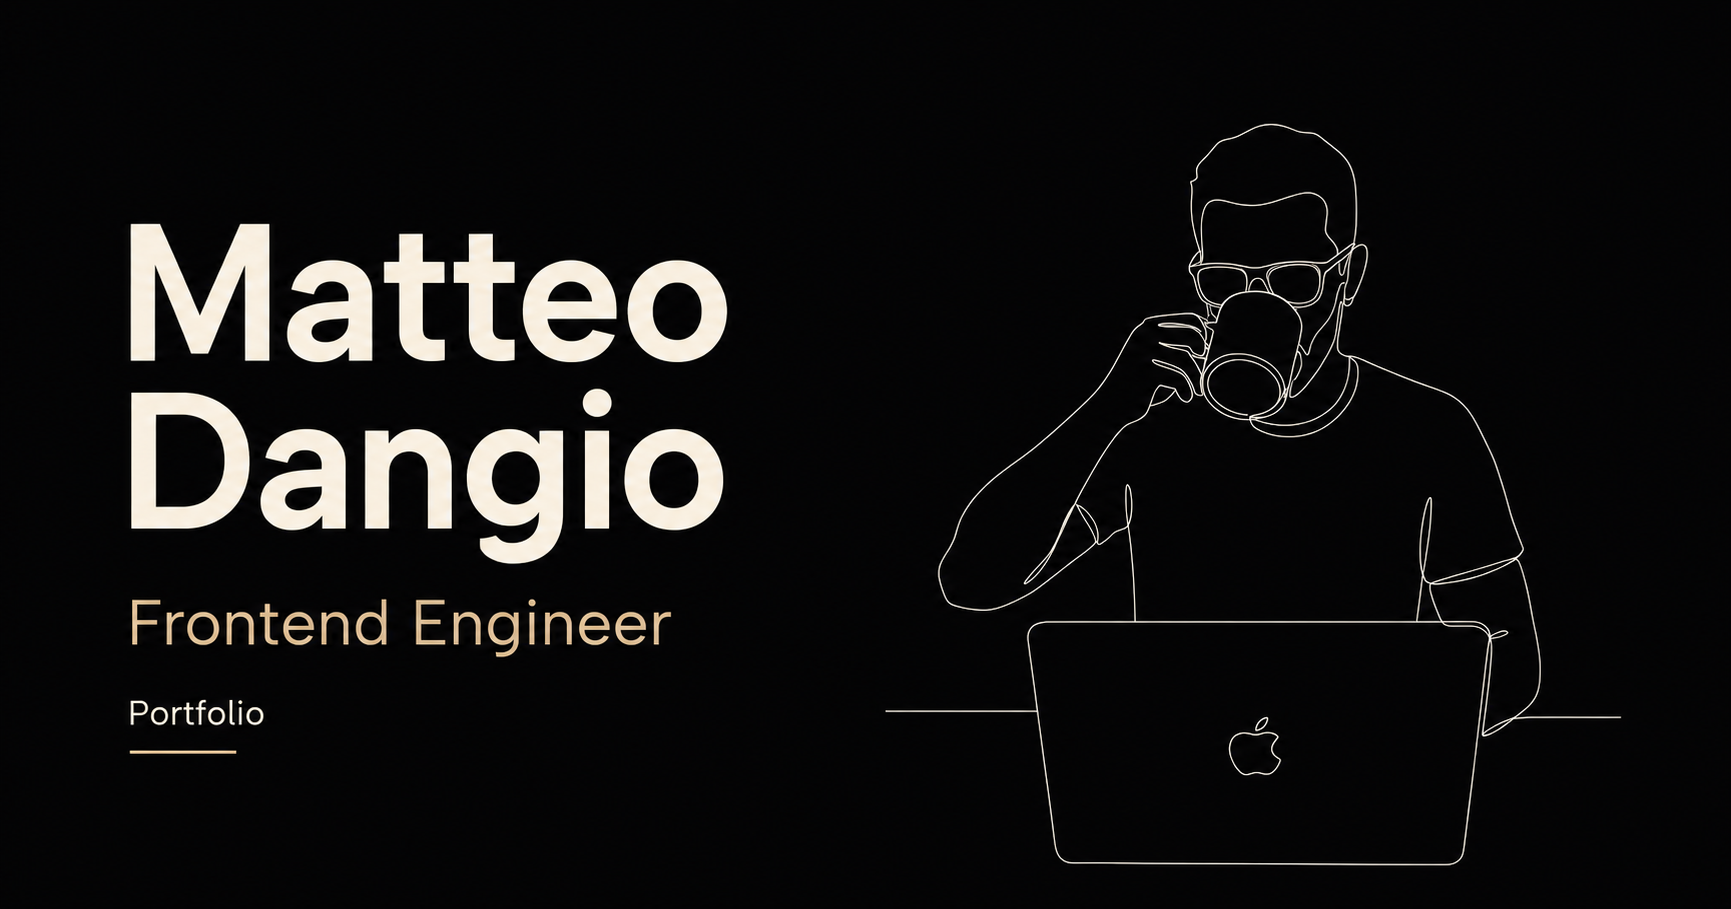
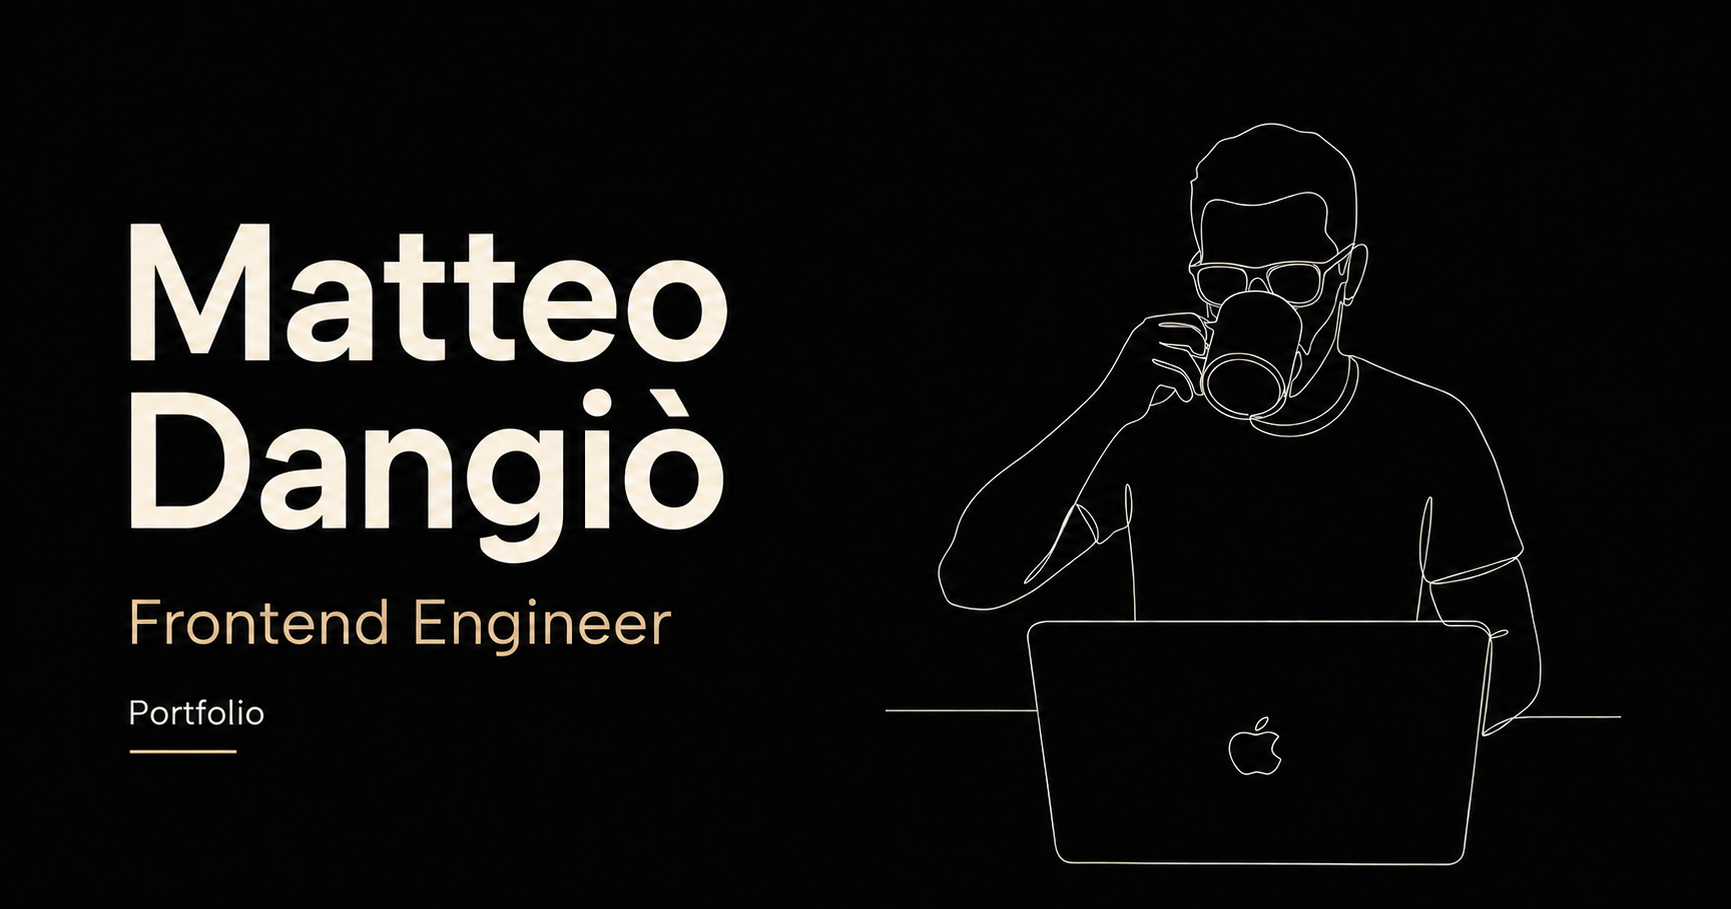
chore: refactor, images added

diff --git a/src/app/projects/[slug]/projectPageSections.tsx b/src/app/projects/[slug]/projectPageSections.tsx
@@ -139,7 +139,7 @@ function ProjectImageFrame({
 }) {
   return (
     <div
-      className="overflow-hidden rounded-2xl border"
+      className="w-full overflow-hidden rounded-2xl border"
       style={{
         borderColor: "var(--border)",
         background:
@@ -147,17 +147,19 @@ function ProjectImageFrame({
       }}
     >
       {image ? (
-        <div className="flex h-full flex-col">
-          <div className="relative min-h-[260px] w-full flex-1 md:min-h-[360px]">
-            <Image
-              src={image.src}
-              alt={image.alt}
-              fill
-              sizes="(max-width: 768px) 100vw, 40vw"
-              priority={priority}
-              className="object-cover"
-            />
-          </div>
+        <div className="flex flex-col">
+          <a href={image.src} target="_blank" rel="noopener noreferrer">
+            <div className="relative aspect-video w-full">
+              <Image
+                src={image.src}
+                alt={image.alt}
+                fill
+                sizes="(max-width: 768px) 100vw, 50vw"
+                priority={priority}
+                className="object-cover"
+              />
+            </div>
+          </a>
           {image.caption && (
             <div
               className="border-t px-5 py-4"
@@ -170,7 +172,7 @@ function ProjectImageFrame({
           )}
         </div>
       ) : (
-        <div className="flex min-h-[260px] items-center justify-center p-8 md:min-h-[360px]">
+        <div className="flex aspect-video items-center justify-center p-8">
           <p
             className="text-center text-sm uppercase tracking-[0.16em]"
             style={{ color: "var(--text-faint)" }}
@@ -186,11 +188,11 @@ function ProjectImageFrame({
 export function ProjectHero({ project }: { project: IProjectShowcaseItem }) {
   return (
     <header
-      className="border-b pb-12 md:pb-16"
-      style={{ borderColor: "var(--border)" }}
+      // className="border-b pb-12 md:pb-16"
+      // style={{ borderColor: "var(--border)" }}
     >
-      <div className="grid gap-10 lg:grid-cols-[minmax(0,0.95fr)_minmax(320px,0.85fr)] lg:gap-16">
-        <div>
+      <div className="grid gap-10 xl:grid-cols-[minmax(0,1.15fr)_minmax(0,28rem)] xl:items-start xl:gap-16">
+        <div className="min-w-0">
           <p
             className="mb-4 text-xs font-medium uppercase tracking-[0.18em]"
             style={{ color: "var(--text-faint)" }}
@@ -220,7 +222,7 @@ export function ProjectHero({ project }: { project: IProjectShowcaseItem }) {
           {(project.liveUrl || project.githubUrl) && (
             <div className="mt-8 flex flex-wrap gap-4">
               {project.liveUrl && (
-                <ExternalProjectLink href={project.liveUrl}>
+                <ExternalProjectLink href={project.liveUrl ? project.liveUrl : project.temporaryUrl!}>
                   View live
                 </ExternalProjectLink>
               )}
@@ -233,7 +235,9 @@ export function ProjectHero({ project }: { project: IProjectShowcaseItem }) {
           )}
         </div>
 
-        <ProjectImageFrame image={project.heroImage} priority />
+        <div className="min-w-0">
+          <ProjectImageFrame image={project.heroImage} priority />
+        </div>
       </div>
     </header>
   );
@@ -527,7 +531,8 @@ function ProjectGallery({ images }: { images: IProjectImage[] }) {
               background: "var(--surface)",
             }}
           >
-            <div className="relative h-[240px] w-full">
+          <a href={image.src} target="_blank" rel="noopener noreferrer">
+            <div className="relative aspect-video w-full">
               <Image
                 src={image.src}
                 alt={image.alt}
@@ -536,6 +541,7 @@ function ProjectGallery({ images }: { images: IProjectImage[] }) {
                 className="object-cover"
               />
             </div>
+          </a>
             {image.caption && (
               <figcaption
                 className="border-t px-5 py-4 text-sm leading-7"

diff --git a/src/components/sections/hero.tsx b/src/components/sections/hero.tsx
@@ -39,8 +39,8 @@ export default function Hero() {
         </p>
         <ThemeToggle />
       </div>
-      <div className="mx-auto grid min-h-[calc(100svh-4.75rem)] max-w-7xl grid-cols-1 gap-6 pb-8 pt-4 md:grid-cols-[minmax(0,0.82fr)_minmax(320px,1fr)] md:items-center md:gap-10 md:py-8 [@media(max-height:480px)]:min-h-[calc(100svh-3.5rem)] [@media(max-height:480px)]:gap-4 [@media(max-height:480px)]:py-2">
-        <div className="flex flex-col justify-center py-2 md:py-8 [@media(max-height:480px)]:py-0">
+      <div className="mx-auto grid min-h-[calc(100svh-4.75rem)] max-w-7xl grid-cols-1 gap-6 pb-8 pt-4 md:grid-cols-[minmax(0,0.82fr)_minmax(320px,1fr)] md:items-center md:gap-8 md:py-6 lg:gap-10 [@media(max-height:820px)]:gap-5 [@media(max-height:820px)]:py-3 [@media(max-height:480px)]:min-h-[calc(100svh-3.5rem)] [@media(max-height:480px)]:gap-4 [@media(max-height:480px)]:py-2">
+        <div className="flex flex-col justify-center py-2 md:py-6 [@media(max-height:820px)]:py-1 [@media(max-height:480px)]:py-0">
           <div
             className="flex max-w-5xl justify-center md:justify-start"
             style={{
@@ -51,12 +51,12 @@ export default function Hero() {
               srcLight="/dark-hero-me.png"
               srcDark="/light-hero-me.png"
               alt="Matteo Dangiò Frontend Engineer"
-              className="hero-wordmark w-full max-w-[260px] sm:max-w-[320px] md:max-w-[430px] lg:max-w-[500px] xl:max-w-[560px] [@media(max-height:480px)]:max-w-[220px]"
+              className="hero-wordmark w-full max-w-[260px] sm:max-w-[320px] md:max-w-[420px] lg:max-w-[470px] xl:max-w-[520px] 2xl:max-w-[560px] [@media(max-height:820px)]:md:max-w-[360px] [@media(max-height:820px)]:lg:max-w-[410px] [@media(max-height:820px)]:xl:max-w-[450px] [@media(max-height:480px)]:max-w-[220px]"
             />
           </div>
 
           <p
-            className="max-w-xl text-base leading-8 md:text-lg [@media(max-height:480px)]:max-w-md [@media(max-height:480px)]:text-sm [@media(max-height:480px)]:leading-6"
+            className="max-w-xl text-base leading-8 md:text-lg [@media(max-height:820px)]:max-w-lg [@media(max-height:820px)]:text-base [@media(max-height:820px)]:leading-7 [@media(max-height:480px)]:max-w-md [@media(max-height:480px)]:text-sm [@media(max-height:480px)]:leading-6"
             style={{ color: "var(--text-muted)" }}
           >
             {heroLabels.description1}
@@ -81,7 +81,7 @@ export default function Hero() {
                     className="group relative block text-left md:text-right"
                   >
                     <span
-                      className="font-body relative block text-[2rem] font-bold uppercase leading-[0.92] tracking-normal transition-all duration-200 ease-out group-hover:translate-x-1 md:text-[3.75rem] lg:text-[5.5rem] xl:text-[6.5rem] 2xl:text-[7.5rem] [@media(max-height:480px)]:text-[2.2rem]"
+                      className="font-body relative block text-[2rem] font-bold uppercase leading-[0.92] tracking-normal transition-all duration-200 ease-out group-hover:translate-x-1 md:text-[clamp(3.4rem,7vw,4.5rem)] lg:text-[clamp(4.2rem,6.5vw,5.25rem)] xl:text-[clamp(4.75rem,6.2vw,6rem)] 2xl:text-[7rem] [@media(max-height:820px)]:md:text-[clamp(3rem,6.2vw,4.25rem)] [@media(max-height:820px)]:xl:text-[clamp(4rem,5.5vw,5rem)] [@media(max-height:480px)]:text-[2.2rem]"
                       style={{
                         color: "var(--hero-nav)",
                       }}

diff --git a/src/components/sections/featuredProjects.tsx b/src/components/sections/featuredProjects.tsx
@@ -29,30 +29,26 @@ function ProjectLink({ project }: { project: IProjectShowcaseItem }) {
   return (
     <Link
       href={projectPageLink.href}
-      className="
-group
-inline-flex
-items-center
-gap-2
-text-sm
-font-medium
-uppercase
-tracking-[0.14em]
-transition-colors
-duration-200
-"
+      className="group
+                inline-flex
+                items-center
+                gap-2
+                text-sm
+                font-medium
+                uppercase
+                tracking-[0.14em]
+                transition-colors
+                duration-200"
       style={{ color: "var(--text)" }}
     >
       {projectPageLink.label}
       <ArrowUpRight
         size={15}
-        className="
-    transition-transform
-    duration-200
-    ease-out
-    group-hover:-translate-y-0.5
-    group-hover:translate-x-0.5
-  "
+        className="transition-transform
+                  duration-200
+                  ease-out
+                  group-hover:-translate-y-0.5
+                  group-hover:translate-x-0.5"
       />
     </Link>
   );
@@ -99,7 +95,7 @@ export default function FeaturedProjects() {
       aria-labelledby="projects-title"
     >
       <motion.div
-        className="mb-14 grid grid-cols-1 gap-8 lg:grid-cols-[minmax(0,0.42fr)_minmax(0,1fr)] lg:gap-16"
+        className="mb-14 grid grid-cols-1 gap-8 xl:grid-cols-[minmax(0,0.42fr)_minmax(0,1fr)] xl:gap-16"
         variants={fadeUp}
         initial="hidden"
         whileInView="visible"
@@ -149,7 +145,7 @@ export default function FeaturedProjects() {
           {projectLabel.subtitle1}
         </p>
 
-        <div className="grid grid-cols-1 gap-8 lg:grid-cols-[minmax(0,1fr)_minmax(0,0.85fr)] lg:gap-16">
+        <div className="grid grid-cols-1 gap-8 xl:grid-cols-[minmax(0,1fr)_minmax(0,0.85fr)] xl:gap-16">
           <div
             className="min-h-[260px] rounded-2xl md:min-h-[400px]"
             style={{

diff --git a/src/data/projects.ts b/src/data/projects.ts
@@ -76,14 +76,14 @@ export const projects: IProjectShowcaseItem[] = [
       "Google Analytics 4",
     ],
     heroImage: {
-      src: "/images/projects/mcsaldature/hero-homepage.jpg",
+      src: "/images/projects/mcsaldature/home.webp",
       alt: "Homepage preview of the website",
       caption:
         "The public interface prioritizes service clarity and direct contact.",
     },
     gallery: [
       {
-        src: "/images/projects/mcsaldature/admin-panel.jpg",
+        src: "/images/projects/mcsaldature/admin-panel.webp",
         alt: "Admin content editing interface",
         caption:
           "The admin area lets the client update content without developer edits.",
@@ -147,7 +147,8 @@ export const projects: IProjectShowcaseItem[] = [
       "Contact conversion tracking",
       "CMS preview workflow",
     ],
-    liveUrl: undefined,
+    liveUrl: "https://www.mcsaldature.com/",
+    temporaryUrl: "https://mcsaldature.netlify.app/",
     githubUrl: undefined,
   },
   {
@@ -234,7 +235,7 @@ export const projects: IProjectShowcaseItem[] = [
       "Automated OG generation",
       "Internationalization",
     ],
-    liveUrl: undefined,
+    liveUrl: "https://matteodangio.com",
     githubUrl: "https://github.com/matteodangio/portfolio_app",
   },
   {

diff --git a/src/components/sections/about.tsx b/src/components/sections/about.tsx
@@ -27,8 +27,8 @@ export default function About() {
       style={{ borderColor: "var(--border)" }}
       aria-labelledby="about-title"
     >
-      <div className="grid grid-cols-1 gap-12 lg:grid-cols-[minmax(0,0.42fr)_minmax(0,1fr)] lg:gap-16">
-        <div className="lg:sticky lg:top-24 lg:self-start">
+      <div className="grid grid-cols-1 gap-12 xl:grid-cols-[minmax(0,0.42fr)_minmax(0,1fr)] xl:gap-16">
+        <div className="xl:sticky xl:top-24 xl:self-start">
           <p
             className="mb-4 text-xs font-medium uppercase tracking-[0.22em]"
             style={{ color: "var(--text-faint)" }}
@@ -45,8 +45,8 @@ export default function About() {
           >
             {aboutLabels.title}
           </h2>
-
-          <div
+          {/* section for personal avatar */}
+          {/* <div
             className="mt-8 overflow-hidden rounded-[1.75rem] border"
             style={{
               borderColor: "var(--border)",
@@ -60,7 +60,7 @@ export default function About() {
                   "linear-gradient(135deg, color-mix(in srgb, var(--accent) 18%, var(--surface)) 0%, var(--surface-2) 100%)",
               }}
             />
-          </div>
+          </div> */}
         </div>
 
         <div>

diff --git a/src/components/sections/experience.tsx b/src/components/sections/experience.tsx
@@ -27,10 +27,10 @@ export default function Experience() {
       viewport={{ once: false, amount: "some" }}
     >
       <motion.div
-        className="grid grid-cols-1 gap-12 lg:grid-cols-[minmax(0,0.42fr)_minmax(0,1fr)] lg:gap-16"
+        className="grid grid-cols-1 gap-12 xl:grid-cols-[minmax(0,0.42fr)_minmax(0,1fr)] xl:gap-16"
         variants={fadeUp}
       >
-        <div className="lg:sticky lg:top-24 lg:self-start">
+        <div className="xl:sticky xl:top-24 xl:self-start">
           <p
             className="mb-4 text-xs font-medium uppercase tracking-[0.22em]"
             style={{ color: "var(--text-faint)" }}

diff --git a/src/components/sections/contact.tsx b/src/components/sections/contact.tsx
@@ -8,7 +8,7 @@ export default function Contact() {
       style={{ borderColor: "var(--border)" }}
       aria-labelledby="contact-title"
     >
-      <div className="grid grid-cols-1 gap-12 lg:grid-cols-[minmax(0,0.42fr)_minmax(0,1fr)] lg:gap-16">
+      <div className="grid grid-cols-1 gap-12 xl:grid-cols-[minmax(0,0.42fr)_minmax(0,1fr)] xl:gap-16">
         <div>
           <p
             className="mb-4 text-xs font-medium uppercase tracking-[0.22em]"

diff --git a/src/components/layout/footer.tsx b/src/components/layout/footer.tsx
@@ -18,7 +18,7 @@ export default function Footer() {
           >
             Privacy
           </Link>
-          <p aria-label={`Copyright ${year}`}>© {year}</p>
+          <p aria-label={`Copyright ${year}`}>© {year}. All rights reserved.</p>
         </div>
       </div>
     </footer>

diff --git a/src/types/index.ts b/src/types/index.ts
@@ -54,6 +54,7 @@ export interface IProjectShowcaseItem {
   href?: string;
   stack?: string[];
   liveUrl?: string;
+  temporaryUrl?: string;
   githubUrl?: string;
 
   problem?: string;
